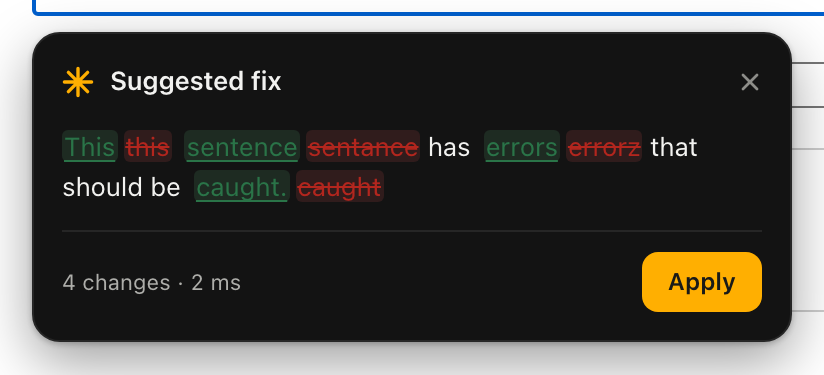
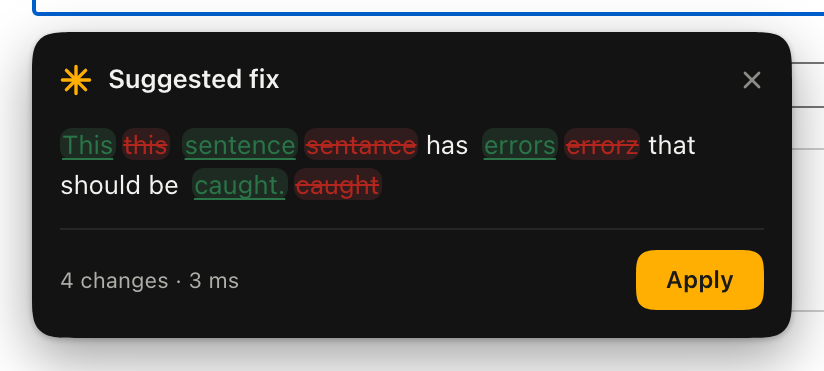
Continuous corners: discs, capsules, and squircle frames

diff --git a/content/ui.js b/content/ui.js
@@ -40,16 +40,15 @@
 
   const FALLBACK_CSS = [
     '.ww-tokens{position:absolute;top:0;left:0;display:block;color:#f2f2f0;font:13px/1.5 -apple-system,BlinkMacSystemFont,"Segoe UI",Roboto,sans-serif;text-align:left;direction:ltr}',
-    '.ww-card{display:flex;flex-direction:column;width:380px;max-width:calc(100vw - 16px);max-height:320px;padding:14px;background:#131313;color:#f2f2f0;border:1px solid #262626;border-radius:14px;box-shadow:0 10px 28px rgba(0,0,0,.38),0 1px 3px rgba(0,0,0,.24);pointer-events:auto;overflow:hidden}',
+    '.ww-card{display:flex;flex-direction:column;width:380px;max-width:calc(100vw - 16px);max-height:320px;padding:14px;background:#131313;color:#f2f2f0;border-radius:20px;corner-shape:squircle;box-shadow:0 10px 28px rgba(0,0,0,.38),0 1px 3px rgba(0,0,0,.24);pointer-events:auto;overflow:hidden}',
     '.ww-head{display:flex;align-items:center;gap:8px}', '.ww-mark{color:#ffaf01;display:inline-flex}',
     '.ww-title{flex:1;min-width:0;font-weight:600;white-space:nowrap;overflow:hidden;text-overflow:ellipsis}',
-    '.ww-x{display:inline-flex;align-items:center;justify-content:center;width:24px;height:24px;border:0;background:none;color:#8d8d89;cursor:pointer}', '.ww-tools{display:flex;align-items:center;gap:2px;margin:-4px -6px -4px 0}', '.ww-speak{color:#8d8d89}',
+    '.ww-x{display:inline-flex;align-items:center;justify-content:center;width:24px;height:24px;border:0;border-radius:999px;corner-shape:squircle;background:none;color:#8d8d89;cursor:pointer}', '.ww-tools{display:flex;align-items:center;gap:2px;margin:-4px -6px -4px 0}', '.ww-speak{color:#8d8d89}',
     '.ww-body{flex:1;min-height:0;overflow:auto;margin-top:12px}', '.ww-foot{display:flex;gap:8px;align-items:center;margin-top:12px;padding-top:10px;border-top:1px solid #262626}',
     '.ww-meta{flex:1;min-width:0;font-size:11px;color:#aeaeaa;white-space:nowrap;overflow:hidden;text-overflow:ellipsis}',
-    '.ww-btn{height:30px;padding:0 12px;border-radius:8px;font:600 12px/1 inherit;cursor:pointer;border:1px solid transparent;background:none;color:#f2f2f0}',
+    '.ww-btn{height:30px;padding:0 14px;border-radius:999px;corner-shape:squircle;font:600 12px/1 inherit;cursor:pointer;border:1px solid transparent;background:none;color:#f2f2f0}',
     '.ww-btn-ghost{color:#aeaeaa;border-color:#343434}', '.ww-btn-primary{background:#ffaf01;color:#1a1a18}',
-    '.ww-ins{background:rgba(92,184,122,.15);color:#5cb87a;text-decoration:underline;text-decoration-color:#5cb87a}', '.ww-ins + .ww-del,.ww-del + .ww-ins{margin-left:3px}',
-    '.ww-del{background:rgba(217,83,79,.15);color:#e27d79;text-decoration:line-through;text-decoration-color:#e27d79}',
+    '.ww-ins{background:rgba(92,184,122,.15);color:#5cb87a;text-decoration:underline;text-decoration-color:#5cb87a;border-radius:6px}', '.ww-ins + .ww-del,.ww-del + .ww-ins{margin-left:3px}', '.ww-del{background:rgba(217,83,79,.15);color:#e27d79;text-decoration:line-through;text-decoration-color:#e27d79;border-radius:6px}',
     '.ww-sub,.ww-msg{margin:0;color:#aeaeaa}', '.ww-sr{position:absolute;width:1px;height:1px;overflow:hidden;clip:rect(0 0 0 0);white-space:nowrap}', '.ww-skel{height:8px;border-radius:4px;background:#232323;margin:0 0 8px}',
   ].join('\n');
 

diff --git a/vocab/vocab.css b/vocab/vocab.css
@@ -118,13 +118,14 @@ button {
   justify-content: center;
   gap: 6px;
   height: var(--ww-touch-h);
-  padding: 0 14px;
+  padding: 0 16px;
   font-size: var(--ww-fs-12);
   font-weight: 500;
   color: var(--ww-tx);
   background: var(--ww-surface);
   border: 1px solid var(--ww-border-2);
-  border-radius: var(--ww-r-sm);
+  border-radius: var(--ww-r-pill);
+  corner-shape: var(--ww-corner);
   cursor: pointer;
   white-space: nowrap;
   transition:
@@ -214,7 +215,8 @@ button {
   color: var(--ww-tx);
   background: var(--ww-surface);
   border: 1px solid var(--ww-border-2);
-  border-radius: var(--ww-r-sm);
+  border-radius: var(--ww-r);
+  corner-shape: var(--ww-corner);
   transition: border-color var(--ww-dur) var(--ww-ease);
 }
 
@@ -270,7 +272,8 @@ button {
   color: var(--ww-tx);
   background: var(--ww-surface);
   border: 1px solid var(--ww-border-2);
-  border-radius: var(--ww-r-sm);
+  border-radius: var(--ww-r-pill);
+  corner-shape: var(--ww-corner);
   transition: border-color var(--ww-dur) var(--ww-ease);
   appearance: none;
 }
@@ -301,6 +304,7 @@ button {
   background: var(--ww-surface-2);
   border: 1px solid var(--ww-border);
   border-radius: var(--ww-r);
+  corner-shape: var(--ww-corner);
 }
 
 .seg-btn {
@@ -315,6 +319,7 @@ button {
   background: transparent;
   border: 1px solid transparent;
   border-radius: var(--ww-r-sm);
+  corner-shape: var(--ww-corner);
   cursor: pointer;
   transition:
     background-color var(--ww-dur) var(--ww-ease),
@@ -370,7 +375,8 @@ button {
   padding: 16px;
   background: var(--ww-surface);
   border: 1px solid var(--ww-border);
-  border-radius: var(--ww-r);
+  border-radius: var(--ww-r-lg);
+  corner-shape: var(--ww-corner);
 }
 
 .add-grid {
@@ -417,7 +423,8 @@ button {
   margin-top: 16px;
   background: var(--ww-surface);
   border: 1px solid var(--ww-border);
-  border-radius: var(--ww-r);
+  border-radius: var(--ww-r-lg);
+  corner-shape: var(--ww-corner);
   overflow: hidden;
 }
 
@@ -555,7 +562,8 @@ button {
   color: var(--ww-tx-3);
   background: none;
   border: 1px solid transparent;
-  border-radius: var(--ww-r-sm);
+  border-radius: var(--ww-r-pill);
+  corner-shape: var(--ww-corner);
   cursor: pointer;
   opacity: 0.5;
   transition:
@@ -777,7 +785,8 @@ button {
   padding: 28px 32px;
   background: var(--ww-surface);
   border: 1px solid var(--ww-border);
-  border-radius: var(--ww-r-lg);
+  border-radius: var(--ww-r-xl);
+  corner-shape: var(--ww-corner);
 }
 
 .card-question {

diff --git a/popup/popup.css b/popup/popup.css
@@ -215,7 +215,8 @@ body.is-off .mark {
   min-height: 30px;
   padding: 1px var(--ww-2);
   margin-inline: calc(-1 * var(--ww-2));
-  border-radius: var(--ww-r-sm);
+  border-radius: var(--ww-r);
+  corner-shape: var(--ww-corner);
 }
 
 .row-label {
@@ -245,6 +246,7 @@ body.is-off .mark {
   background: var(--ww-surface-2);
   border: 1px solid var(--ww-border);
   border-radius: var(--ww-r);
+  corner-shape: var(--ww-corner);
 }
 
 .seg-btn {
@@ -257,6 +259,7 @@ body.is-off .mark {
   background: transparent;
   border: 1px solid transparent;
   border-radius: var(--ww-r-sm);
+  corner-shape: var(--ww-corner);
   cursor: pointer;
   transition:
     background-color var(--ww-dur) var(--ww-ease),
@@ -285,7 +288,8 @@ body.is-off .mark {
   padding: 8px 10px;
   background: var(--ww-accent-soft);
   border: 1px solid var(--ww-accent-soft);
-  border-radius: var(--ww-r-sm);
+  border-radius: var(--ww-r);
+  corner-shape: var(--ww-corner);
 }
 
 .setup[hidden] {
@@ -331,7 +335,8 @@ body.is-off .mark {
   color: var(--ww-tx);
   background: var(--ww-surface);
   border: 1px solid var(--ww-border-2);
-  border-radius: var(--ww-r-sm);
+  border-radius: var(--ww-r);
+  corner-shape: var(--ww-corner);
   transition: border-color var(--ww-dur) var(--ww-ease);
 }
 
@@ -374,14 +379,15 @@ body.is-off .mark {
 .btn {
   flex: none;
   height: var(--ww-control-h);
-  padding: 0 12px;
+  padding: 0 14px;
   font-family: inherit;
   font-size: var(--ww-fs-12);
   font-weight: 500;
   color: var(--ww-tx);
   background: var(--ww-surface);
   border: 1px solid var(--ww-border-2);
-  border-radius: var(--ww-r-sm);
+  border-radius: var(--ww-r-pill);
+  corner-shape: var(--ww-corner);
   cursor: pointer;
   transition:
     background-color var(--ww-dur) var(--ww-ease),
@@ -441,6 +447,7 @@ body.is-off .mark {
   line-height: 1.4;
   color: var(--ww-tx-2);
   border-radius: var(--ww-r-sm);
+  corner-shape: var(--ww-corner);
   transition: color var(--ww-dur) var(--ww-ease);
 }
 
@@ -501,7 +508,8 @@ body.is-off .mark {
   color: var(--ww-tx);
   background: var(--ww-surface);
   border: 1px solid var(--ww-border-2);
-  border-radius: var(--ww-r-sm);
+  border-radius: var(--ww-r);
+  corner-shape: var(--ww-corner);
   appearance: none;
   cursor: pointer;
   transition: border-color var(--ww-dur) var(--ww-ease);

diff --git a/content/ui.css b/content/ui.css
@@ -76,8 +76,8 @@
   overflow: hidden;
   background: var(--ww-surface);
   color: var(--ww-tx);
-  border: 1px solid var(--ww-border);
-  border-radius: 14px;
+  border-radius: var(--ww-r-xl);
+  corner-shape: var(--ww-corner);
   box-shadow: var(--ww-shadow);
   font-family: var(--ww-font);
   font-size: var(--ww-fs-13);
@@ -168,7 +168,8 @@
   margin: 0;
   padding: 0;
   border: 0;
-  border-radius: 6px;
+  border-radius: var(--ww-r-pill);
+  corner-shape: var(--ww-corner);
   background: transparent;
   color: var(--ww-tx-3);
   cursor: pointer;
@@ -256,7 +257,7 @@
   padding: 0 1px;
   background: var(--ww-jade-soft);
   color: var(--ww-jade);
-  border-radius: 3px;
+  border-radius: var(--ww-r-xs);
   text-decoration: underline;
   text-decoration-color: var(--ww-jade);
   text-decoration-thickness: 1px;
@@ -274,7 +275,7 @@
   padding: 0 1px;
   background: var(--ww-danger-soft);
   color: var(--ww-danger);
-  border-radius: 3px;
+  border-radius: var(--ww-r-xs);
   text-decoration: line-through;
   text-decoration-color: var(--ww-danger);
   text-decoration-thickness: 1px;
@@ -300,7 +301,7 @@
 .ww-skel {
   height: 8px;
   margin: 0 0 8px;
-  border-radius: 4px;
+  border-radius: var(--ww-r-xs);
   background: var(--ww-surface-3);
 }
 
@@ -371,9 +372,10 @@
   align-items: center;
   justify-content: center;
   height: 30px;
-  padding: 0 12px;
+  padding: 0 14px;
   border: 1px solid transparent;
-  border-radius: 8px;
+  border-radius: var(--ww-r-pill);
+  corner-shape: var(--ww-corner);
   background: transparent;
   color: var(--ww-tx);
   font-family: var(--ww-font);

diff --git a/shared/tokens.css b/shared/tokens.css
@@ -61,11 +61,21 @@
   --ww-5: 20px;
   --ww-6: 24px;
 
-  /* shape */
-  --ww-r-sm: 8px;
-  --ww-r: 12px;
-  --ww-r-lg: 16px;
+  /* shape — an iOS-ish ladder: controls are capsules or near-capsules, only
+     containers keep a visible corner. */
+  --ww-r-xs: 6px;
+  --ww-r-sm: 10px;
+  --ww-r: 14px;
+  --ww-r-lg: 20px;
+  --ww-r-xl: 24px;
   --ww-r-pill: 999px;
+  /* Continuous corners where the engine can draw them: the curve starts
+     earlier and hands off to the edge without a tangent break, which is the
+     difference between "rounded rectangle" and the iOS shape. Chrome 139+
+     supports it; older engines drop the declaration and keep the plain
+     circular arc, so every radius is also chosen to read well as a round
+     corner. */
+  --ww-corner: squircle;
   --ww-control-h: 32px;
   --ww-touch-h: 36px;
 

diff --git a/DESIGN.md b/DESIGN.md
@@ -22,7 +22,8 @@ duration or font in a component file.
 | `--ww-tx`, `--ww-tx-2`, `--ww-tx-3` | primary, secondary, tertiary text |
 | `--ww-fs-10 … --ww-fs-18` | type scale (10/11/12/13/15/18) |
 | `--ww-1 … --ww-6` | 4/8/12/16/20/24 spacing |
-| `--ww-r-sm`, `--ww-r`, `--ww-r-lg`, `--ww-r-pill` | 8/12/16/999 |
+| `--ww-r-xs`, `--ww-r-sm`, `--ww-r`, `--ww-r-lg`, `--ww-r-xl`, `--ww-r-pill` | 6/10/14/20/24/999 — chips, glyph buttons, fields, containers, the card, capsules |
+| `--ww-corner` | `squircle`: continuous corners on every rounded surface. Chrome 139+ draws them; older engines drop the declaration and keep the circular arc |
 | `--ww-control-h`, `--ww-touch-h` | 32px controls, 36px touch target |
 | `--ww-shadow` | the single depth: the floating card. Controls are flat |
 | `--ww-ease`, `--ww-dur`, `--ww-dur-slow` | 140ms / 200ms, one easing curve |
@@ -42,6 +43,18 @@ room. Depth is equally disciplined: only the floating card has a shadow. Buttons
 switches, segmented tiles and slider thumbs are flat — a control that floats
 reads as a different material from the field it sits in.
 
+Shape carries the same discipline. Three tiers, and nothing in between: glyph
+buttons are **discs**, actions are **capsules**, and containers keep a visible
+corner (20px lists and callouts, 24px for the card and the review card). Fields
+sit at 14px so they read as controls rather than containers. Corners are drawn
+with `corner-shape: squircle` — the continuous curve starts earlier and meets
+the edge without a tangent break, which is what the eye reads as "iOS" rather
+than "rounded rectangle". It is set through the `--ww-corner` token so an engine
+without `corner-shape` simply ignores the declaration and keeps the circular
+arc; every radius is chosen to read well both ways. Hairline borders stay only
+where they separate two surfaces of the same colour; the card lost its border
+and is defined by its shadow alone.
+
 ## Type
 
 System UI stack. No webfonts — a popup that waits on a font download is a popup
@@ -51,7 +64,7 @@ instructions.
 
 ## Components
 
-- **Switch** — 36×20, real `<input type="checkbox">` + styled track. React to
+- **Switch** — 36×20 capsule track, real `<input type="checkbox">` + styled track. React to
   `change` only. Never re-toggle `.checked` in a click handler; that is the bug
   that broke v1. Flat, no shadow; the thumb is ink on the accent track. The off track is neutral with a muted knob; the on track is
   the accent with an ink knob (`--ww-switch-thumb`), because the accent is
@@ -61,8 +74,9 @@ instructions.
 - **Key row** — password input + `Test` button + status dot (jade = connected,
   danger = rejected, muted = untested).
 - **Fix row** — icon-less label + switch. No emoji, no decorative glyphs.
-- **Pills** — tone presets, 24px, muted until active.
-- **Card** — 380px, 14px padding, 14px radius, one shadow, hairline border.
+- **Pills** — tone presets, 24px capsules, muted until active.
+- **Card** — 380px, 14px padding, 24px continuous corners, one shadow, no
+  border: the edge is the shadow, not a line.
   The header is a 20px row: 16px mark, title, then a 24px icon cluster with a
   2px gap (speaker 13px, close 12px), pulled in 4px vertically and 6px
   horizontally so the glyphs align with the padding while the hit areas stay

diff --git a/README.md b/README.md
@@ -206,6 +206,17 @@ mouse/keyboard events: auto-check debounce, request shape, apply/undo on all
 three field types, error persistence, shadow-DOM isolation against hostile CSS,
 per-site pause, word-limit guard, shortcut and selection paths.
 
+## Differences from v2.6.0
+
+- Shape: everything is rounder and more iOS. Glyph buttons are discs, actions
+  are capsules (the card's Copy/Save/Replace/Apply, the popup's Test/Pause, the
+  vocabulary page's buttons), fields sit at 14px, containers at 20px, and the
+  card and review card at 24px. Corners are continuous where the engine can
+  draw them (`corner-shape: squircle`, through the `--ww-corner` token) and
+  degrade to a circular arc elsewhere.
+- Cleaner: the card lost its hairline border — the shadow is the edge. The
+  floating card is still the only depth in the product.
+
 ## Differences from v2.5.1
 
 - Card rhythm: 14px padding, a 24px icon cluster in the header (13px speaker,
